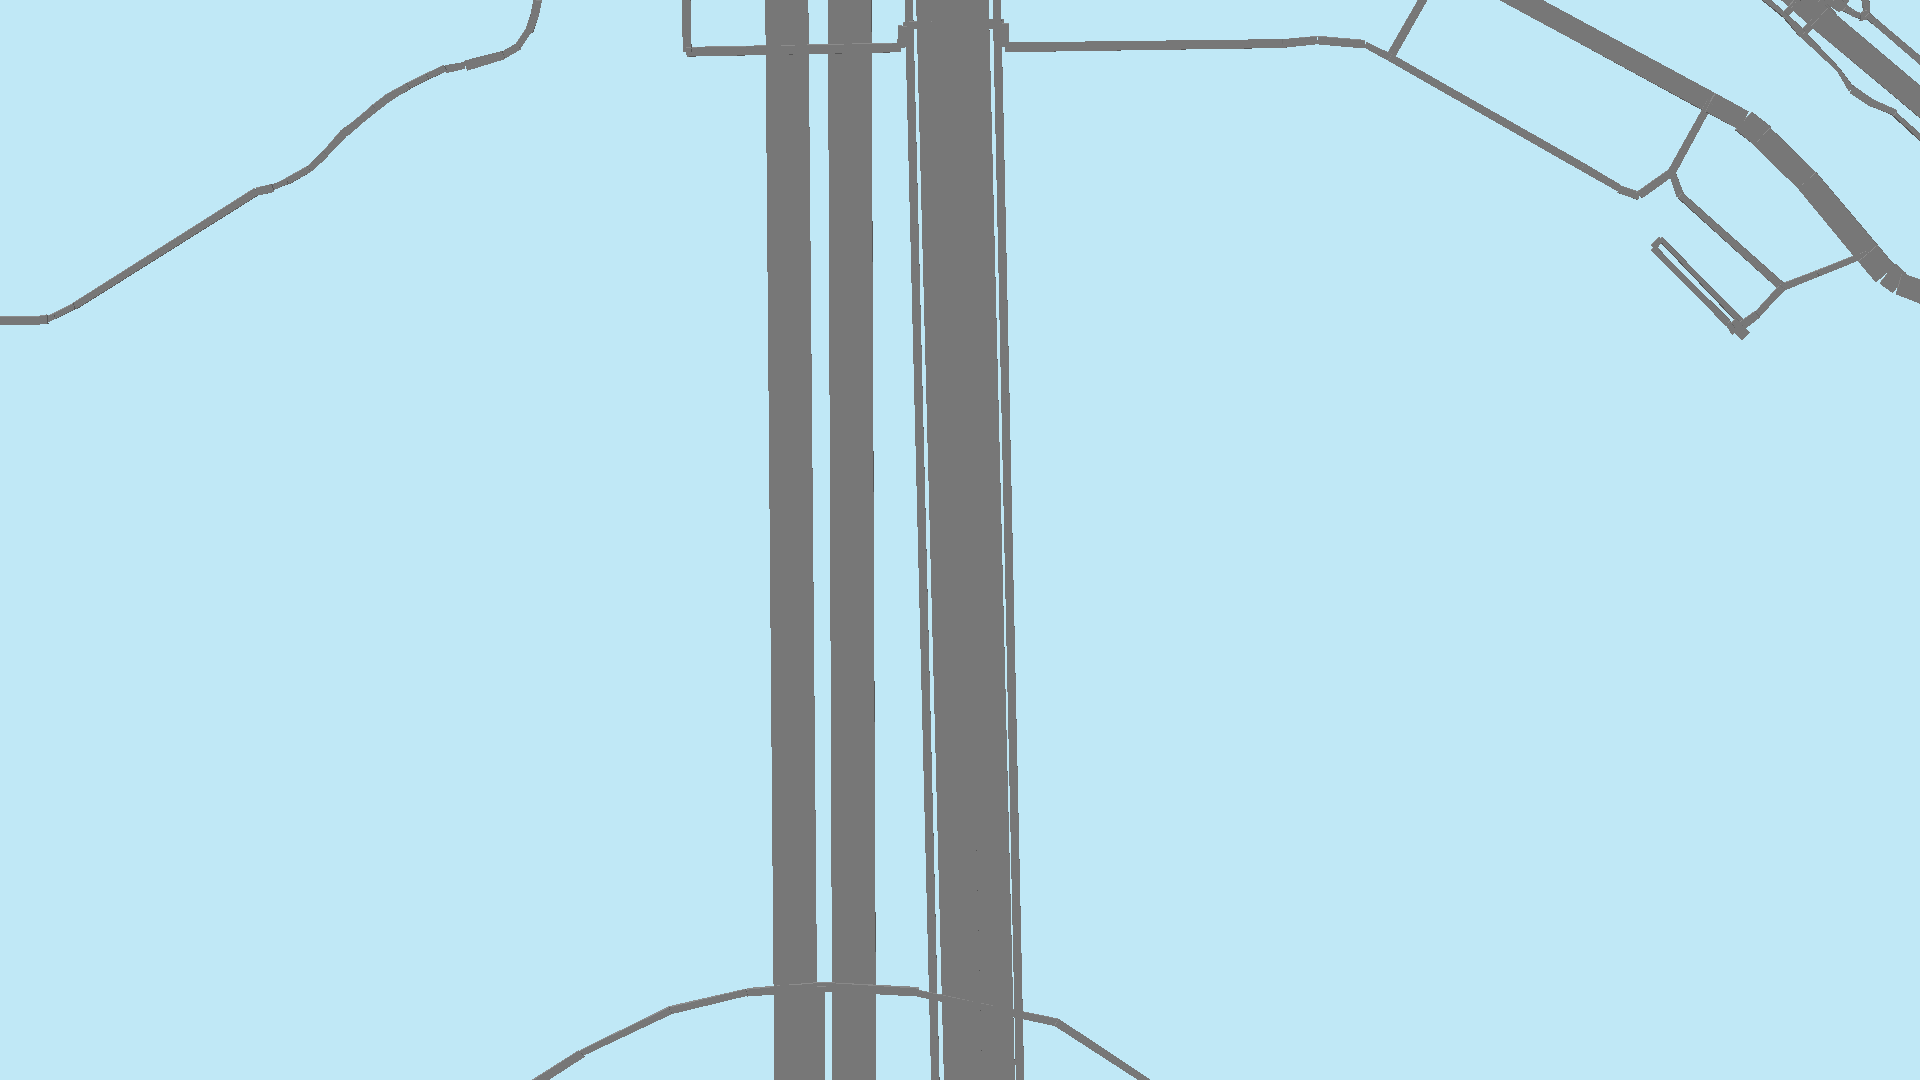
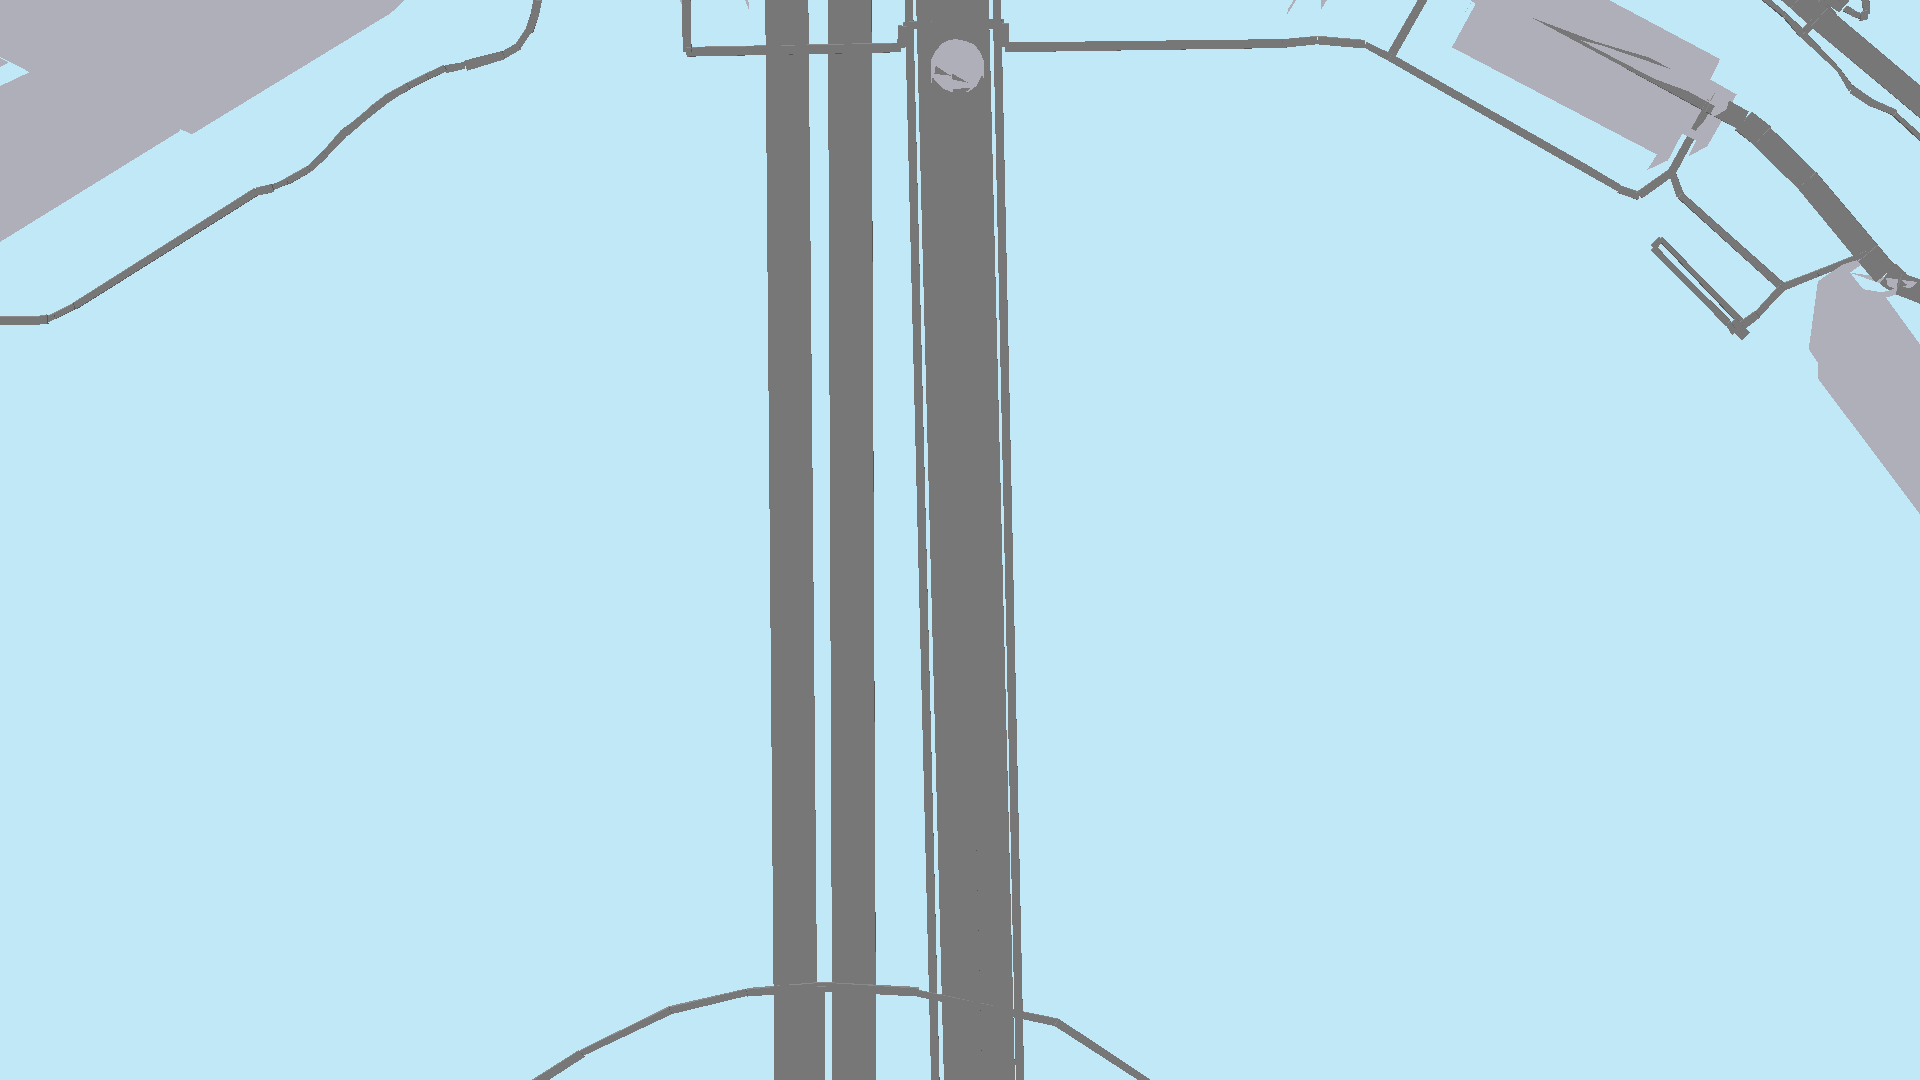
progress: increased render radius to 5km, rendering 36k buildings
Now showing 36,279 buildings (225x more than before).
But buildings are floating - need terrain mesh to sit on.

Issues identified:
- No ground terrain mesh (just floating buildings)
- No water plane for river
- Buildings not anchored to proper ground level

Next: Generate terrain mesh from SRTM data.

diff --git a/examples/capture_screenshots.rs b/examples/capture_screenshots.rs
@@ -348,11 +348,11 @@ impl ApplicationHandler for ScreenshotApp {
             println!("SRTM manager initialized (procedural fallback enabled)");
             
             // Generate mesh with distance filtering AND terrain elevation
-            // Use 500m radius to get dense urban coverage around camera
+            // Use 5000m radius to match reference image detail level
             let (vertices, indices) = generate_mesh_from_osm_filtered(
                 &osm_data,
                 Some(&TEST_GPS),
-                500.0, // 500m radius - dense coverage like walking mode
+                5000.0, // 5km radius - matches reference detail
                 Some(&mut srtm), // Enable terrain elevation
             );
             println!("Generated {} vertices, {} indices\n", vertices.len(), indices.len());

diff --git a/src/lib.rs b/src/lib.rs
@@ -8,7 +8,8 @@ pub mod osm;
 pub mod elevation;
 pub mod elevation_sources;
 pub mod elevation_downloader;
-pub mod srtm_downloader;  // New async multi-source downloader
+pub mod srtm_downloader;
+pub mod terrain_mesh;  // Terrain mesh generation from SRTM
 pub mod renderer;
 
 #[cfg(test)]
